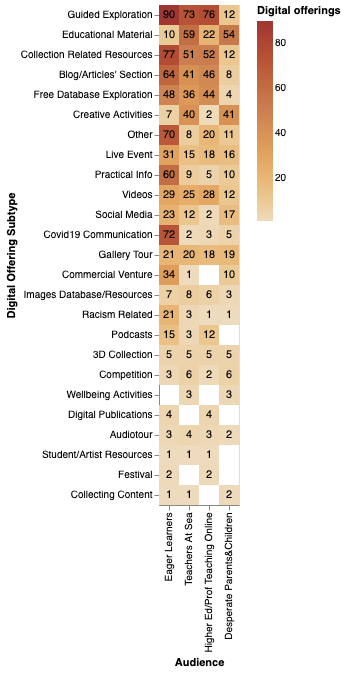
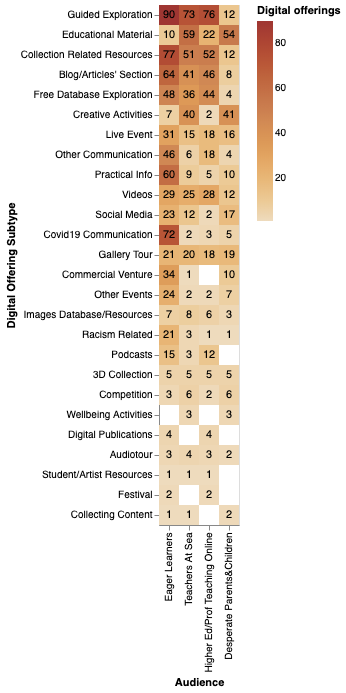
changes to graphs for clarity purposes

diff --git a/EGauthorGuidelines-GCH2020-sub.tex b/EGauthorGuidelines-GCH2020-sub.tex
@@ -77,7 +77,7 @@
 % EG author guidelines plus sample file for EG publication using LaTeX2e input
 % D.Fellner, v2.03, Dec 14, 2018
 \title[Heritage in lockdown: digital provision of memory institutions during the COVID-19 pandemic]%
-      {Heritage in lockdown: digital provision of memory institutions in the United Kingdom and United States during the COVID-19 pandemic}
+      {Heritage in lockdown: digital provision of memory institutions in the United Kingdom and United States of America during the COVID-19 pandemic}
 
 % for anonymous conference submission please enter your SUBMISSION ID
 % instead of the author's name (and leave the affiliation blank) !!
@@ -437,26 +437,24 @@ For the UK, \emph{Collection} type of digital offerings represented a 29\%; whil
 As for \textit{Communication} offerings, memory institutions actively sought to keep in contact with audiences, through communication efforts that seem slightly higher in the USA. In general, memory institutions seem to have responded well to advice (see \ref{con}) to keep communication with audiences via alternative channels of communication through digital tools and platforms. In this type of content too, there were some noteworthy resources - apart from blog content, social media material, videos, podcasts and more - that demonstrate the effort of institutions to keep relevant to the community for example by responding to the Black Lives Matter movement \cite{Greer2020,Wali2020,Feldman2020}; or by trying to incorporate people's voices with respect to future digital strategies \cite{HistoricAlexandria2020}; and reopening plans \cite{BlackCountryLivingMuseum2020,BristolMuseums2020}. 
 
 
-
 On the lower end, actual \textit{Virtual visits} - in the form of 360-degrees visits, VR/AR experiences or audiotours - represented only a 2\% both for the UK and the USA making it the least common type of digital offering for both countries. It is interesting that so few virtual visits were offered, despite the fact that audiences could not physically visit memory institutions. Probably, the biggest barrier for this was the lack of funding and infrastructure for the creation of such experiences. Fewer museums had already explored virtual visits' opportunities through collaborations with Google Arts \& Culture Street View panoramas \cite{GoogleArts&Culture,GoogleArts&Culturea} or in house productions \cite{FrankLloydWrightFoundation,BirminghamMuseum&ArtGallery}. Other offerings which were provided to substitute virtual visits include: exhibition tours such as the last minute video with the curator of Michelangelo's exhibition at the Getty Center, recorded just before the museum's closure \cite{getty2020}; live events to go through indoor or outdoor spaces of an institution during the lockdown \cite{VizcayaMuseum&Gardens2020}; recorded videos demonstrating galleries, conservation spaces, museum gardens and more \cite{Kew2020,ArchaeologyAlexandria2020}.
 
 
-For most offering subtypes, the comparisons between the UK and USA show that there are only minor differences between the countries; with percentage differences of less than 3\%. The only exceptions are \emph{Guided explorations}, which constitute 12\% of the offerings in the UK and 8\% of the offerings in the USA; \emph{Live events} which are 3\% of the offerings in the UK and 6\% of the offerings in the USA; and \emph{Other} \textcolor{red}{is that communication related content, i.e. communication>other or events>other content?}
-% (e.g. project advertisements, initiatives' presentations and more)
-which is 12\% of the offerings in the UK and 9\% of the offerings in the USA.
+For most offering subtypes, the comparisons between the UK and USA show that there are only minor differences between the countries; with percentage differences of less than 3\%. Some exceptions include \emph{Guided explorations}, which constitute 11\% of the offerings in the UK and 8\% of the offerings in the USA; free database exploration which are 7\% of the offerings in the UK and 4\% of the offerings in the USA; and \emph{Live events} which are 3\% of the offerings in the UK and 6\% of the offerings in the USA.
  
-\begin{figure*}[h]
+\begin{figure}[h]
   \centering
-  \includegraphics[width=\linewidth]{images/typecomparison.png}
+  \includegraphics[width=\linewidth]{images/typeNEW.png}
   \caption{\label{fig:TypeComparisonUKUS}
            Comparison of offering types between USA and UK}
-\end{figure*}
-\begin{figure*}[h]
+\end{figure}
+
+\begin{figure}[h]
   \centering
-  \includegraphics[width=\linewidth]{images/subtypecomparison.png}
+  \includegraphics[width=\linewidth]{images/subtypeNEW.png}
   \caption{\label{fig:SubTypeComparisonUKUS}
            Comparison of offering subtypes between USA and UK}
-\end{figure*}
+\end{figure}
 
  
 % \begin{figure}[h]
@@ -509,7 +507,7 @@ This group was the most benefited by the digital offerings of memory institution
 \noindent \textbf{Stakeholders who wish to keep involved}: those audiences, who are key stakeholders of memory institutions, were offered mainly COVID-19 communication (227 offerings), blog content and articles covering a variety of topics (28 offerings), and practical information (30). The sum of these offerings represents a 31\% of the total offering, making them the second most benefited type of audience. 
 
 Most communication related to COVID-19 involved statements about the temporary museums' closures, as well as updates about the response of the museum, and future plans for reopening. Other offerings provided further information on how to financially support memory institutions during this difficult period. This type of offering will be further discussed in Section~\ref{don}.
-
+ 
 \noindent \textbf{Audiences seeking emotional support and entertainment}: those audiences seeking emotional support were able to access digital offerings, including social media (44 offerings), live events (58 offerings) and creative activities (44 offerings). The sum of these three top offerings represents a 16\% of the total offerings recorded. Well-being activities (49 offerings) are also of relevance to this audience, which represents a 5\% of the total offerings recorded. 
 
 Overall, the provision for audiences seeking emotional support and entertainment was the most modest when compared to the other groups. This is regardless of being identified as a priority group by international bodies (see \ref{con}). Also, there is few evidence on how the digital provision responded to societal needs and current developments by reaching or engaging with vulnerable groups such as the homeless, people suffering from dementia, children who cannot access easily education, refugees, minorities and women experiencing domestic violence. However, there are relevant research efforts that seek to investigate whether online heritage experiences can help vulnerable groups, such as those suffering from chronic pain and mental health issues \cite{O-Ace,CHWA}. 
@@ -522,7 +520,7 @@ Live events represented an interesting offering, given the increase already reco
 % An example of an online event is the virtual summer camp offered by the Field Museum (USA), where kids ages 7–12 were able to join Field Museum educators in a variety of indoor activities \cite{fieldmuseum}. This event had a registration cost per household of \$75 for members and \$95 for non-members. 
 
 Lastly, digital provision catering for disabled audiences during the COVID-19 crisis has proved very limited and generally heritage institutions do not seem to have reassessed their offerings to take into consideration the additional difficulties that have emerged for these particular groups because of the pandemic.
-
+ 
 % \color{red}To answer:
 % Which museums target groups that need support through wellbeing activities
 % How many museums collected content 
